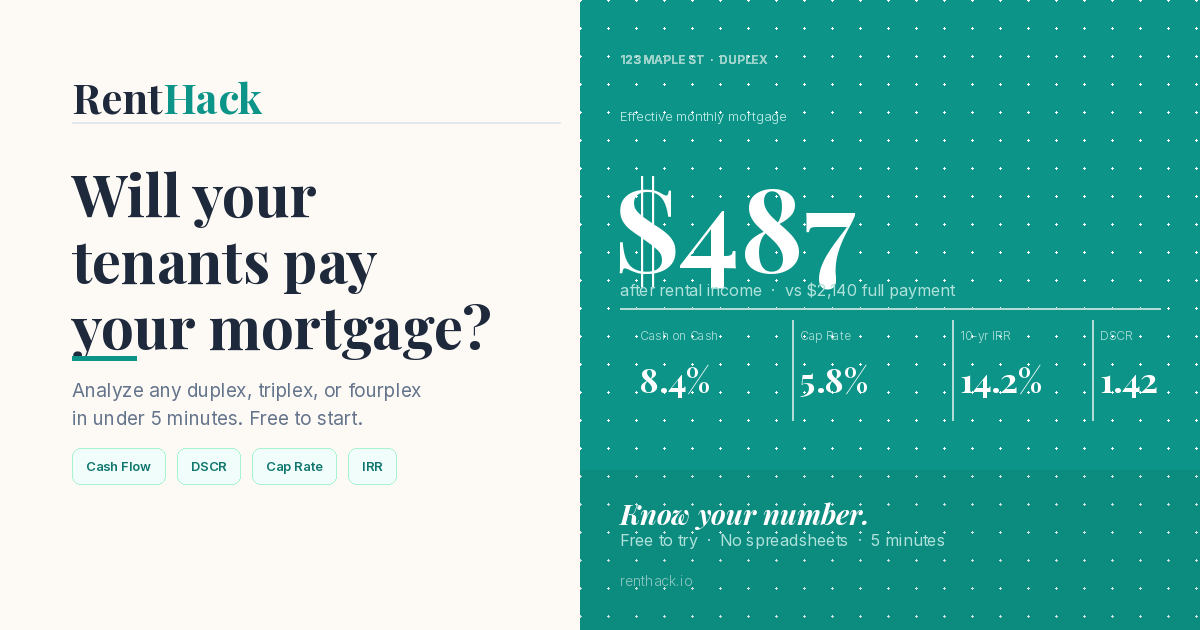
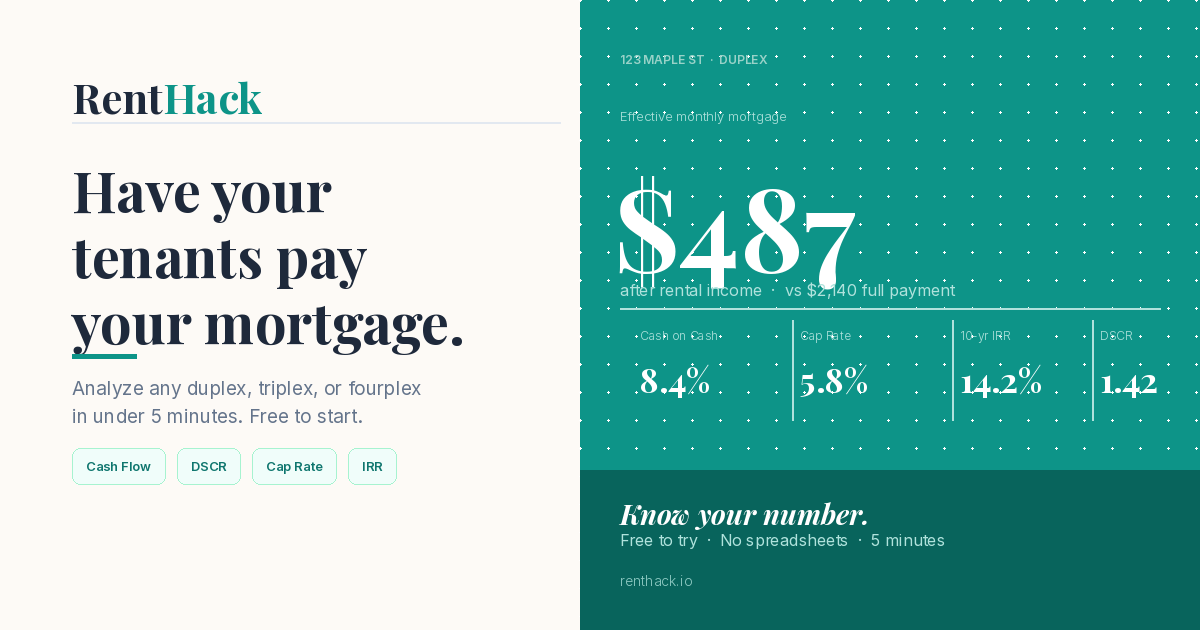
seo: fix OG meta tags on both pages + update copy to action framing
- index.html: add full OG/Twitter meta tags (were missing entirely)
  og:image now includes width/height (1200x630) to fix 'invalid image' error
- landing.html: same OG/Twitter tags added; canonical URL added
- Both pages: updated headline copy 'Will your...' -> 'Have your tenants
  pay your mortgage.' (action framing, not question)
- og-image.png: regenerated with updated headline copy to match

diff --git a/public/landing.html b/public/landing.html
@@ -3,8 +3,25 @@
 <head>
   <meta charset="UTF-8"/>
   <meta name="viewport" content="width=device-width, initial-scale=1.0"/>
-  <title>RentHack — Will your tenants pay your mortgage?</title>
-  <meta name="description" content="RentHack does the math for you — step by step — so you know if a 2–4 unit property actually works before you make an offer."/>
+  <title>RentHack — Have Your Tenants Pay Your Mortgage</title>
+  <meta name="description" content="Analyze duplex, triplex, and fourplex investments in minutes. RentHack calculates cash flow, DSCR, cap rate, and IRR — so you know if a 2–4 unit property works before you make an offer."/>
+  <link rel="canonical" href="https://renthack.io/landing.html"/>
+
+  <!-- Open Graph -->
+  <meta property="og:type"         content="website"/>
+  <meta property="og:url"          content="https://renthack.io/landing.html"/>
+  <meta property="og:title"        content="Have Your Tenants Pay Your Mortgage — RentHack"/>
+  <meta property="og:description"  content="Analyze duplex, triplex, and fourplex investments in minutes. Calculate cash flow, DSCR, cap rate, and IRR — free to try, no spreadsheets required."/>
+  <meta property="og:image"        content="https://renthack.io/og-image.png"/>
+  <meta property="og:image:width"  content="1200"/>
+  <meta property="og:image:height" content="630"/>
+  <meta property="og:site_name"    content="RentHack"/>
+
+  <!-- Twitter / X Card -->
+  <meta name="twitter:card"        content="summary_large_image"/>
+  <meta name="twitter:title"       content="Have Your Tenants Pay Your Mortgage — RentHack"/>
+  <meta name="twitter:description" content="Analyze any duplex, triplex, or fourplex in under 5 minutes. Free deal analyzer built for house hackers."/>
+  <meta name="twitter:image"       content="https://renthack.io/og-image.png"/>
   <link rel="preconnect" href="https://fonts.googleapis.com"/>
   <link rel="preconnect" href="https://fonts.gstatic.com" crossorigin/>
   <link href="https://fonts.googleapis.com/css2?family=Fraunces:ital,opsz,wght@0,9..144,400;0,9..144,700;0,9..144,900;1,9..144,400&family=DM+Sans:wght@400;500;600;700&display=swap" rel="stylesheet"/>
@@ -712,8 +729,8 @@
   <div class="hero-inner">
     <div class="hero-left">
       <div class="hero-tag fade-up fade-up-1">🏠 Built for house hackers</div>
-      <h1 class="fade-up fade-up-2">Will your <span class="accent">tenants</span> pay your <em>mortgage?</em></h1>
-      <p class="fade-up fade-up-3">RentHack does the math for you — step by step — so you know if a 2–4 unit property actually works before you make an offer.</p>
+      <h1 class="fade-up fade-up-2">Have your <span class="accent">tenants</span> pay your <em>mortgage.</em></h1>
+      <p class="fade-up fade-up-3">RentHack shows you exactly how rental income offsets your mortgage — step by step — so you know if a 2–4 unit property actually works before you make an offer.</p>
       <div class="hero-cta-row fade-up fade-up-4">
         <a href="/#signup" class="btn-teal">Analyze a deal free <span>→</span></a>
         <a href="#how" class="btn-soft">▶ See how it works</a>

diff --git a/index.html b/index.html
@@ -3,7 +3,29 @@
 <head>
   <meta charset="UTF-8"/>
   <meta name="viewport" content="width=device-width, initial-scale=1.0, maximum-scale=1.0"/>
-  <title>RentHack — RentHack</title>
+
+  <!-- Primary SEO -->
+  <title>RentHack — Multifamily Deal Analyzer for House Hackers</title>
+  <meta name="description" content="Analyze duplex, triplex, and fourplex investment properties in minutes. RentHack calculates cash flow, DSCR, cap rate, IRR, and your effective mortgage cost — built for first-time house hackers."/>
+  <link rel="canonical" href="https://renthack.io/"/>
+
+  <!-- Open Graph -->
+  <meta property="og:type"        content="website"/>
+  <meta property="og:url"         content="https://renthack.io/"/>
+  <meta property="og:title"       content="RentHack — Multifamily Deal Analyzer for House Hackers"/>
+  <meta property="og:description" content="Analyze duplex, triplex, and fourplex investment properties in minutes. Calculate cash flow, DSCR, cap rate, and IRR — free to try, no spreadsheets required."/>
+  <meta property="og:image"       content="https://renthack.io/og-image.png"/>
+  <meta property="og:image:width"  content="1200"/>
+  <meta property="og:image:height" content="630"/>
+  <meta property="og:site_name"   content="RentHack"/>
+
+  <!-- Twitter / X Card -->
+  <meta name="twitter:card"        content="summary_large_image"/>
+  <meta name="twitter:title"       content="RentHack — Multifamily Deal Analyzer"/>
+  <meta name="twitter:description" content="Have your tenants pay your mortgage. Free deal analyzer for duplex, triplex, and fourplex properties."/>
+  <meta name="twitter:image"       content="https://renthack.io/og-image.png"/>
+
+  <!-- Fonts -->
   <link rel="preconnect" href="https://fonts.googleapis.com"/>
   <link href="https://fonts.googleapis.com/css2?family=Fraunces:ital,opsz,wght@0,9..144,300..900;1,9..144,300..900&family=DM+Sans:wght@400;500;600;700;800&display=swap" rel="stylesheet"/>
   <!-- Google Maps loaded dynamically by PortfolioMap component -->
